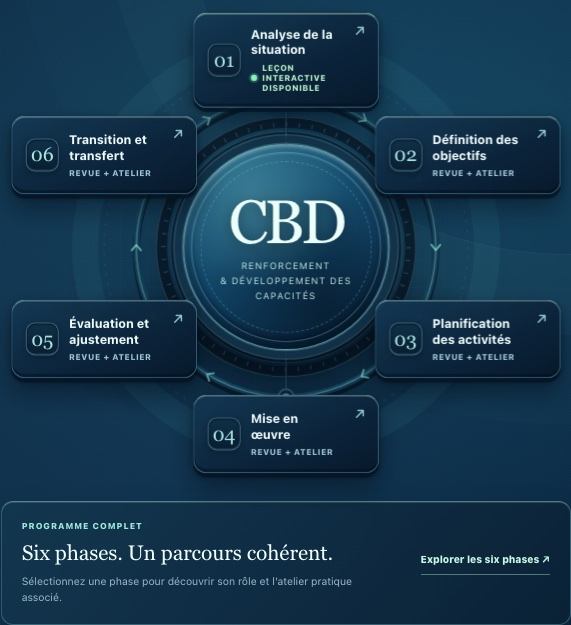
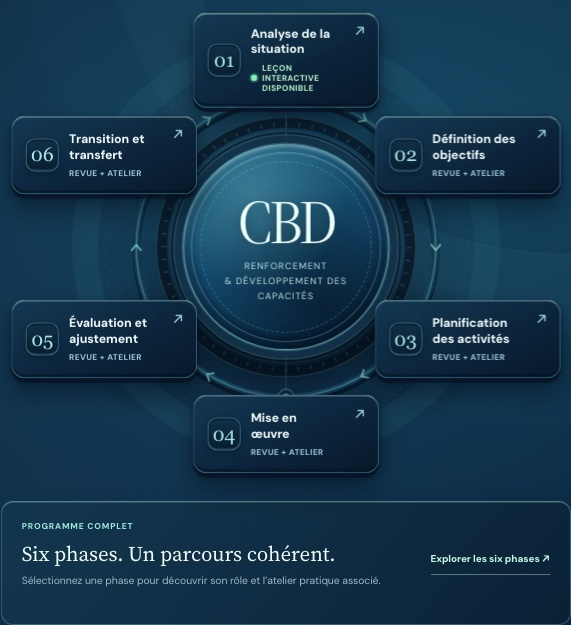
Run 10: eliminate homepage layout shift on phase card hover and focus

diff --git a/course/app.js b/course/app.js
@@ -314,6 +314,31 @@
     const langParam = isEn ? '' : ('&amp;lang=' + encodeURIComponent(i18n.getLang()));
     const rawLangParam = isEn ? '' : ('&lang=' + encodeURIComponent(i18n.getLang()));
     const stageHref = i => i === 0 ? '#lesson-1' : ('../platform/?course=cbd&lesson=cbd-' + (i + 1) + rawLangParam);
+    const defaultMeta = {
+      eyebrow: tr('course.orbitDefaultEyebrow', null, 'THE FULL CURRICULUM'),
+      title: tr('course.orbitDefaultTitle', null, 'Six phases. One connected journey.'),
+      copy: tr('course.orbitDefaultCopy', null, 'Select any phase to explore its purpose and available practical activity.'),
+      action: tr('course.orbitDefaultAction', null, 'Explore all phases')
+    };
+    const getDetailState = indexOrNull => {
+      if (indexOrNull === null || !phases[indexOrNull]) {
+        return { eyebrow: defaultMeta.eyebrow, title: defaultMeta.title, copy: defaultMeta.copy, action: defaultMeta.action, href: '#course-map' };
+      }
+      const phase = phases[indexOrNull];
+      return {
+        eyebrow: isEn ? ('PHASE ' + phase.num + ' / ' + phase.lens) : i18n.t('course.orbitPhasePrefix', { num: phase.num, lens: phase.lens }, ''),
+        title: phase.name,
+        copy: phase.summary,
+        action: indexOrNull === 0
+          ? (isEn ? 'Enter lesson 01' : (c.orbitEnterL1 || 'Enter lesson 01'))
+          : (isEn ? ('Open phase ' + phase.num + ' review lesson') : i18n.t('course.orbitOpenPhase', { num: phase.num }, '')),
+        href: stageHref(indexOrNull)
+      };
+    };
+    const renderDetailLayer = (state, isLive) => isLive
+      ? '<div class="cycle-detail-layer cycle-detail-live"><div class="cycle-detail-copy"><span id="cycle-caption-phase">' + clean(state.eyebrow) + '</span><strong id="cycle-caption-title">' + clean(state.title) + '</strong><p id="cycle-caption-copy">' + clean(state.copy) + '</p></div><a id="cycle-caption-action" href="' + clean(state.href) + '" class="cycle-detail-action">' + clean(state.action) + ' <span aria-hidden="true">↗</span></a></div>'
+      : '<div class="cycle-detail-layer cycle-detail-sizer" aria-hidden="true" inert><div class="cycle-detail-copy"><span>' + clean(state.eyebrow) + '</span><strong>' + clean(state.title) + '</strong><p>' + clean(state.copy) + '</p></div><span class="cycle-detail-action">' + clean(state.action) + ' <span aria-hidden="true">↗</span></span></div>';
+    const detailSizers = [null, 0, 1, 2, 3, 4, 5].map(idx => renderDetailLayer(getDetailState(idx), false)).join('');
     const launchIcon = '<span class="cycle-stage-launch" aria-hidden="true"><svg viewBox="0 0 12 12" fill="none" stroke="currentColor" stroke-width="1.6" stroke-linecap="round" stroke-linejoin="round"><path d="M2.5 9.5L9.5 2.5M4 2.5H9.5V8"/></svg></span>';
     const stageLinks = phases.map((phase, i) =>
       '<a class="cycle-stage stage-' + phase.num + '" data-cycle-phase="' + i + '" href="' + (i === 0 ? '#lesson-1' : ('../platform/?course=cbd&amp;lesson=cbd-' + (i + 1) + langParam)) + '">' +
@@ -388,7 +413,7 @@
       '<div class="cycle-core"><span class="cycle-core-dial" aria-hidden="true"></span><div class="cycle-core-title">'+clean(tr('course.orbitCenterTitle',null,'CBD'))+'</div><span class="cycle-core-full">'+tr('course.orbitCenterSub',null,'CAPACITY BUILDING<br>& DEVELOPMENT')+'</span></div>'+
       stageLinks+
       '</div>'+
-      '<div class="cycle-detail"><div class="cycle-detail-copy"><span id="cycle-caption-phase">'+clean(tr('course.orbitDefaultEyebrow',null,'THE FULL CURRICULUM'))+'</span><strong id="cycle-caption-title">'+clean(tr('course.orbitDefaultTitle',null,'Six phases. One connected journey.'))+'</strong><p id="cycle-caption-copy">'+clean(tr('course.orbitDefaultCopy',null,'Select any phase to explore its purpose and available practical activity.'))+'</p></div><a id="cycle-caption-action" href="#course-map" class="cycle-detail-action">'+clean(tr('course.orbitDefaultAction',null,'Explore all phases'))+' <span aria-hidden="true">↗</span></a></div>'+
+      '<div class="cycle-detail">' + renderDetailLayer(getDetailState(null), true) + detailSizers + '</div>'+
       '</div></section></div><main>'+
       '<section class="highlights shell curriculum-highlights" aria-label="CBD course and activity availability"><div class="highlight-title"><span class="highlight-kicker">'+clean(tr('course.deskKicker',null,'YOUR CBD LEARNING DESK'))+'</span><strong>'+(started?clean(tr('course.deskTitleStarted',null,'Continue your learning journey.')):clean(tr('course.deskTitleFresh',null,'Explore the complete curriculum.')))+'</strong><span>'+(started?clean(tr('course.deskSubStarted',{done:completed},'Lesson 1: '+completed+' of 6 checkpoints passed')):clean(tr('course.deskSubFresh',null,'Six phases, each connected to practical application')))+'</span></div>'+
       '<div class="highlight-stat"><strong>06</strong><small>'+clean(tr('course.statPhases',null,'CURRICULUM PHASES'))+'</small></div>'+
@@ -418,37 +443,23 @@
     const visualBox = document.querySelector('.curriculum-visual');
     const orbitBox = document.querySelector('.cycle-orbit');
     const cycleLinks = Array.from(document.querySelectorAll('[data-cycle-phase]'));
-    const defaultMeta = {
-      eyebrow: tr('course.orbitDefaultEyebrow', null, 'THE FULL CURRICULUM'),
-      title: tr('course.orbitDefaultTitle', null, 'Six phases. One connected journey.'),
-      copy: tr('course.orbitDefaultCopy', null, 'Select any phase to explore its purpose and available practical activity.'),
-      action: tr('course.orbitDefaultAction', null, 'Explore all phases')
-    };
     function previewPhase(indexOrNull) {
       const phaseEl = $('cycle-caption-phase'), titleEl = $('cycle-caption-title'), copyEl = $('cycle-caption-copy'), action = $('cycle-caption-action');
       if (!phaseEl || !titleEl || !copyEl || !action) return;
-      if (orbitBox) orbitBox.dataset.activePhase = indexOrNull === null ? '' : String(indexOrNull);
+      const isPhase = indexOrNull !== null && !!phases[indexOrNull];
+      if (orbitBox) orbitBox.dataset.activePhase = isPhase ? String(indexOrNull) : '';
       cycleLinks.forEach((node, idx) => {
-        if (idx === indexOrNull) node.setAttribute('data-active', 'true');
+        if (isPhase && idx === indexOrNull) node.setAttribute('data-active', 'true');
         else node.removeAttribute('data-active');
       });
-      if (indexOrNull === null || !phases[indexOrNull]) {
-        phaseEl.textContent = defaultMeta.eyebrow;
-        titleEl.textContent = defaultMeta.title;
-        copyEl.textContent = defaultMeta.copy;
-        action.setAttribute('href', '#course-map');
-        action.innerHTML = clean(defaultMeta.action) + ' <span aria-hidden="true">↗</span>';
-        return;
-      }
-      const phase = phases[indexOrNull];
-      phaseEl.textContent = isEn ? ('PHASE ' + phase.num + ' / ' + phase.lens) : i18n.t('course.orbitPhasePrefix', { num: phase.num, lens: phase.lens }, '');
-      titleEl.textContent = phase.name;
-      copyEl.textContent = phase.summary;
-      action.removeAttribute('target'); action.removeAttribute('rel');
-      action.setAttribute('href', stageHref(indexOrNull));
-      action.innerHTML = (indexOrNull === 0
-        ? clean(isEn ? 'Enter lesson 01' : (c.orbitEnterL1 || 'Enter lesson 01'))
-        : clean(isEn ? ('Open phase ' + phase.num + ' review lesson') : i18n.t('course.orbitOpenPhase', { num: phase.num }, ''))) + ' <span aria-hidden="true">↗</span>';
+      const detail = getDetailState(isPhase ? indexOrNull : null);
+      phaseEl.textContent = detail.eyebrow;
+      titleEl.textContent = detail.title;
+      copyEl.textContent = detail.copy;
+      action.removeAttribute('target');
+      action.removeAttribute('rel');
+      action.setAttribute('href', detail.href);
+      action.innerHTML = clean(detail.action) + ' <span aria-hidden="true">↗</span>';
     }
     cycleLinks.forEach(link => {
       const i = Number(link.dataset.cyclePhase);

diff --git a/course/run10-living-orbit.css b/course/run10-living-orbit.css
@@ -430,12 +430,39 @@
   fill: #c7ffd0;
 }
 
-/* Supporting information panel */
+/* Supporting information panel: CSS grid intrinsic sizer stack eliminates height shifts on hover/focus */
 .curriculum-visual .cycle-detail {
+  display: grid;
+  grid-template-columns: minmax(0, 1fr);
+  align-items: start;
   border: 1px solid rgba(154, 232, 236, 0.28);
   border-top-color: rgba(180, 244, 240, 0.42);
   background: linear-gradient(135deg, rgba(19, 55, 79, 0.82), rgba(10, 32, 52, 0.9));
   box-shadow: 0 18px 30px rgba(2, 11, 22, 0.34), inset 0 1px 0 rgba(226, 255, 252, 0.14);
+}
+
+.curriculum-visual .cycle-detail-layer {
+  grid-area: 1 / 1;
+  display: flex;
+  align-items: center;
+  justify-content: space-between;
+  gap: 16px;
+  width: 100%;
+  min-width: 0;
+}
+
+.curriculum-visual .cycle-detail-live {
+  align-self: stretch;
+}
+
+.curriculum-visual .cycle-detail-live .cycle-detail-copy {
+  align-self: start;
+}
+
+.curriculum-visual .cycle-detail-sizer {
+  visibility: hidden;
+  pointer-events: none;
+  user-select: none;
 }
 
 /* Spatial CSS 3D depth on capable devices when reduced motion is not requested */
@@ -548,7 +575,8 @@
   .curriculum-visual a.cycle-stage,
   .curriculum-visual a.cycle-stage:hover,
   .curriculum-visual a.cycle-stage:focus-visible,
-  .curriculum-visual a.cycle-stage:active {
+  .curriculum-visual a.cycle-stage:active,
+  .curriculum-visual a.cycle-stage[data-active="true"] {
     position: relative;
     top: auto;
     left: auto;
@@ -582,6 +610,23 @@
     inset-block-start: 8px;
     inset-inline-end: 8px;
   }
+
+  .curriculum-visual .cycle-detail {
+    padding: 18px;
+    margin-top: 11px;
+    align-items: start;
+  }
+
+  .curriculum-visual .cycle-detail-layer {
+    flex-direction: column;
+    align-items: flex-start;
+    justify-content: flex-start;
+    gap: 12px;
+  }
+
+  .curriculum-visual .cycle-detail-live {
+    justify-content: space-between;
+  }
 }
 
 @media (max-width: 360px) {
@@ -589,7 +634,11 @@
     grid-template-columns: 1fr;
   }
 
-  .curriculum-visual a.cycle-stage {
+  .curriculum-visual a.cycle-stage,
+  .curriculum-visual a.cycle-stage:hover,
+  .curriculum-visual a.cycle-stage:focus-visible,
+  .curriculum-visual a.cycle-stage:active,
+  .curriculum-visual a.cycle-stage[data-active="true"] {
     min-height: 68px;
   }
 }

diff --git a/docs/reviews/run10-living-orbit/DESIGN.md b/docs/reviews/run10-living-orbit/DESIGN.md
@@ -27,3 +27,4 @@
 - **Single-Action Mobile & Keyboard Flow:** Hover (`pointerType !== 'touch'`) and keyboard `focus` preview the phase in `#cycle-detail`, elevate the card, and illuminate its spoke/hub arc; clicking, tapping mobile cards directly, or pressing `Enter` navigates immediately to the station.
 - **Availability Accuracy:** Phase 01 retains `SELF-PACED LESSON LIVE` labeling; Phases 02–06 retain `REVIEW + PRACTICE` labeling and translated equivalents across EN / `fr-FR` / `ar`.
 - **Responsive Reflow & RTL:** Desktop `484px` orbit height (`180px` wide cards, `top: 12.6%..87.4%`) avoids long-label clipping in French (`Analyse de la situation`). Mobile (`<= 650px` 2-column grid, `<= 360px` single-column stack) reserves `margin-inline-end: 14px` on `.cycle-stage-copy` so titles such as `Implementation` stay clear of `.cycle-stage-launch`, and `[dir="rtl"] .cycle-stage-launch svg` mirrors launch geometry for Arabic RTL.
+- **Zero-Shift Hover/Focus Panel Stability:** `.cycle-detail` uses a single-cell CSS Grid track (`grid-area: 1 / 1`) combining `.cycle-detail-live` with seven `aria-hidden="true" inert` `.cycle-detail-sizer` layers (default state plus Phases 01–06). Because CSS Grid sizes the track natively to the intrinsic height of the tallest localized state without fixed pixel heights or clipping, hovering, focusing, or leaving any card produces zero change in `.cycle-detail` height, `.hero-copy` vertical centering, downstream page coordinates, or `document.documentElement.scrollHeight`. Narrow-screen hover/active selectors (`<= 360px`) also preserve the uniform `min-height: 68px` rule cleanly across `:hover`, `:focus-visible`, `:active`, and `[data-active="true"]`.
